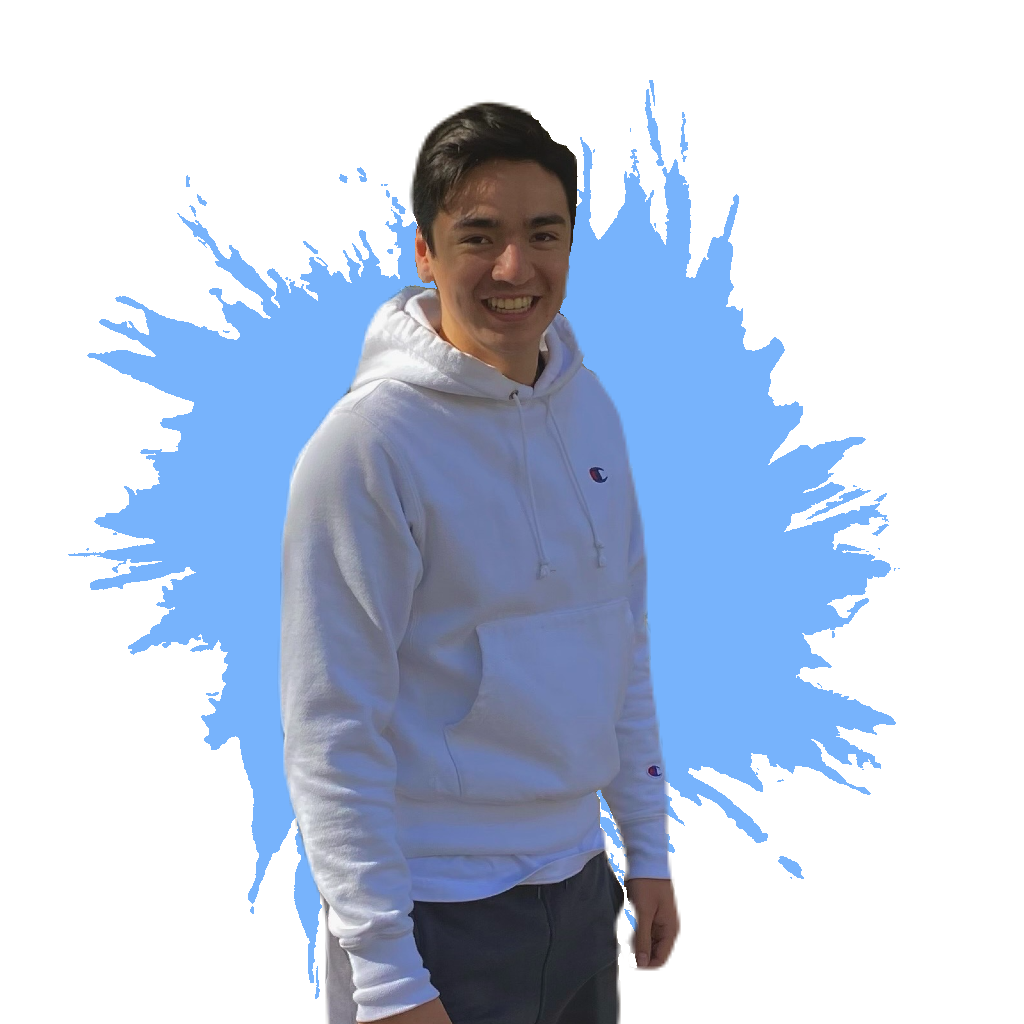
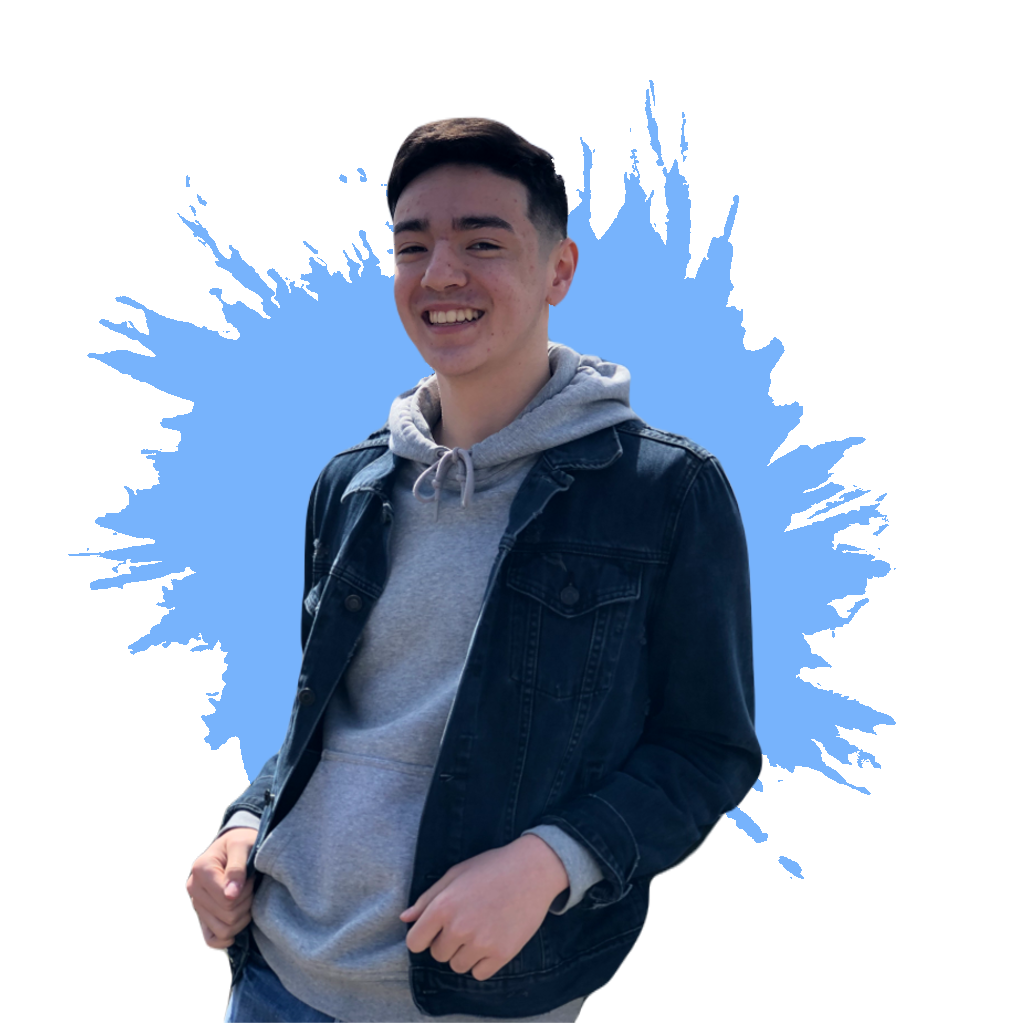
changed dark profile photo and added slide transitions

Changed region(s): [[0.1562, 0.0938, 0.75, 1.0]]

diff --git a/src/styles/Navbar.css b/src/styles/Navbar.css
@@ -283,6 +283,13 @@ input[type="email"] {
   padding: 6px 30px;
 }
 
+.light_profile_pic {
+  animation: fadeInAnimation ease 0.5s;
+}
+.is-black .dark_profile_pic {
+  animation: fadeIn ease 0.5s;
+}
+
 /* Black Styles */
 
 body.is-black {
@@ -382,6 +389,15 @@ body.is-black {
 .is-black .second-letter {
   color: var(--invert-primary-color);
 }
+
+/* .is-black .light_profile_pic {
+  transition: 0.3s;
+  opacity: 0;
+} */
+/* .is-black .dark_profile_pic {
+  transition: 0.3s;
+  opacity: 1;
+} */
 @media (max-width: 1027px) {
   .header-menu__link {
     font-size: 16px;
@@ -502,7 +518,10 @@ body.is-black {
   .dm-icon {
     font-size: 25px;
   }
-  .profile_pic {
+  .dark_profile_pic {
+    max-width: 400px;
+  }
+  .light_profile_pic {
     max-width: 400px;
   }
   .intro__img {
@@ -524,10 +543,18 @@ body.is-black {
   }
 }
 @keyframes fadeInAnimation {
-  0% {
+  from {
     opacity: 0;
   }
-  100% {
+  to {
+    opacity: 1;
+  }
+}
+@keyframes fadeIn {
+  from {
+    opacity: 0;
+  }
+  to {
     opacity: 1;
   }
 }

diff --git a/src/pages/Home.jsx b/src/pages/Home.jsx
@@ -85,11 +85,19 @@ function Home(props) {
             </div>
           </div>
           <div class="intro__img">
-            <img
-              class="profile_pic"
-              src={props.isDarkMode ? darkProfile : lightProfile}
-              alt="Joshua Jipp Picture"
-            />
+            {props.isDarkMode ? (
+              <img
+                class="dark_profile_pic"
+                src={darkProfile}
+                alt="Joshua Jipp Image"
+              />
+            ) : (
+              <img
+                className="light_profile_pic"
+                src={lightProfile}
+                alt="Joshua Jipp Image"
+              />
+            )}
           </div>
         </div>
       </div>
